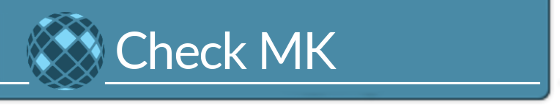
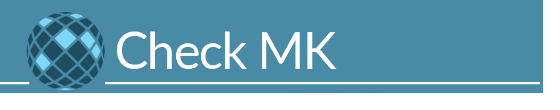
Replaced some more images with simple CSS definitions

Changed region(s): [[0.0, 0.0, 1.0, 0.9273]]

diff --git a/web/htdocs/sidebar.css b/web/htdocs/sidebar.css
@@ -56,10 +56,16 @@ body.side.screenshotmode {
     position: relative;
     top: 0px;
     left: 0px;
-    width: 100%;
-    height: 55px;
+    width: 274px;
+    height: 49px;
     z-index: 10;
-    background-repeat: no-repeat;
+
+    border: 1px solid #264755;
+    border-top: 0;
+    border-left: 0;
+    border-bottom-right-radius: 5px;
+    box-shadow: 0px 0px 2px rgba(0, 0, 0, 0.50);
+    background: #498aa6;
 }
 
 #side_bg {
@@ -86,18 +92,19 @@ body.side.screenshotmode {
     width: 10px;
     height: 55px;
     z-index: 15;
+    cursor: pointer;
 }
+
 #side_fold:hover {
     background-repeat: no-repeat;
     background-position: -3px 7px;
     background-image: url("images/side_fold.png");
 }
 
-
 #side_version {
     position: absolute;
     top: 12px;
-    right: 20px;
+    right: 10px;
     z-index: 54;
     color: #fff;
     text-align: right;
@@ -146,16 +153,22 @@ body.side.screenshotmode {
     position: absolute;
     bottom: 0;
     left: 0;
-    height: 44px;
-    width: 100%;
+    height: 38px;
+    width: 274px;
     z-index: 10;
-    background-repeat: no-repeat;
-    background-image: url("images/sidebar_bottom.png");
+    margin: 0;
+
+    border-color: #86b1c4 #264755;
+    border-width: 1px 1px 0 0;
+    border-style: solid;
+    border-top-right-radius: 5px;
+    box-shadow: 0px 0px 2px rgba(0, 0, 0, 0.50);
+    background: #498aa6;
 }
 
 #side_footer img.iconbutton {
     position: relative;
-    top: 10px;
+    top: 4px;
     left: 9px;
     margin-right: 3px;
     width: 33px;
@@ -164,10 +177,9 @@ body.side.screenshotmode {
 
 #side_footer div.copyright {
     color: #fff;
-    position: relative;
-    left: 141px;
-    top: -5px;
-    width: 122px;
+    position: absolute;
+    right: 10px;
+    bottom: 5px;
     text-align: right;
 }
 
@@ -181,10 +193,16 @@ body.side.screenshotmode {
 
 /* General layout of snapins */
 div.snapin {
-    width: 1555px;
-    margin: 0 0 0 5px;
     padding: 0;
     overflow: hidden;
+    border-color: #8ab1c0 #294753 #294753 #8ab1c0;
+    border-width: 1px;
+    border-style: solid;
+    width: 248px;
+    margin: 5px 10px;
+    border-radius: 5px;
+    box-shadow: 0px 0px 2px rgba(0, 0, 0, 0.50);
+    background: #508aa1;
 }
 
 div.snapin:last-child {
@@ -193,35 +211,26 @@ div.snapin:last-child {
 
 /* Header of the snapin */
 div.snapin div.head {
-    width: 260px;
+    background-color: #6da1b8;
     text-align: center;
     color: #fff;
-    height: 26px;
-    line-height: 29px;
+    height: 20px;
+    line-height: 20px;
 }
 
 div.snapin div.head b {
     font-weight: normal;
 }
 
-
-div.snapin div.head.open {
-    background-image: url("images/snapin_header.png");
-}
-
-div.snapin div.head.closed {
-    background-image: url("images/snapin_closed.png");
-}
-
 /* close button on header */
 div.snapin div.closesnapin {
     float: right;
-    margin-right: 12px;
-    margin-top:   11px;
+    margin-right: 6px;
+    margin-top: 6px;
     line-height: 0px;
     height: 8px;
-    width:8px;
-    padding:0;
+    width: 8px;
+    padding: 0;
 }
 
 div.snapin div.closesnapin img {
@@ -231,8 +240,8 @@ div.snapin div.closesnapin img {
 
 div.snapin div.minisnapin {
     float: left;
-    margin-left: 13px;
-    margin-top:  11px;
+    margin-left: 6px;
+    margin-top: 6px;
     line-height: 0px;
     height: 8px;
 }
@@ -242,24 +251,9 @@ div.snapin div.minisnapin img {
     height: 8px;
 }
 
-
 div.snapin div.content {
-    background-image: url("images/snapin_background.png");
-    background-repeat: repeat-y;
-    background-position: left;
-
-    /* It's important for the left/right padding to be substracted
-     * from the width defined below. The regular width would be 260px. */
-    padding: 10px 15px 5px;
-    width: 230px;
-}
-
-div.snapin div.foot {
-    background-image: url("images/snapin_footer.png");
-    background-repeat: no-repeat;
-    width: 260px;
-    height: 5px;
-    line-height: 5px;
+    padding: 10px;
+    width: 228px;
 }
 
 /*

diff --git a/web/htdocs/js/sidebar.js b/web/htdocs/js/sidebar.js
@@ -659,8 +659,6 @@ function toggle_sidebar_snapin(oH2, url) {
             var oContent = child;
         else if (child.tagName == 'DIV' && (child.className == 'head open' || child.className == "head closed"))
             var oHead = child;
-        else if (child.tagName == 'DIV' && child.className == 'foot')
-            var oFoot = child;
     }
     var oImgMini = oHead.childNodes[0].childNodes[0].childNodes[0];
 
@@ -668,13 +666,11 @@ function toggle_sidebar_snapin(oH2, url) {
     var closed = oContent.style.display == "none";
     if (closed) {
         oContent.style.display = "block";
-        oFoot.style.display = "block";
         oHead.className = "head open";
         oImgMini.src = "images/button_minisnapin.png";
     }
     else {
         oContent.style.display = "none";
-        oFoot.style.display = "none";
         oHead.className = "head closed";
         oImgMini.src = "images/button_maxisnapin.png";
     }
@@ -682,7 +678,6 @@ function toggle_sidebar_snapin(oH2, url) {
     get_url(url + (closed ? "open" : "closed"));
     oContent = null;
     oHead = null;
-    oFoot = null;
     childs = null;
 }
 

diff --git a/web/htdocs/sidebar.py b/web/htdocs/sidebar.py
@@ -370,7 +370,7 @@ def render_snapin(name, state):
             html.write('<script>get_url("%s", updateContents, "snapin_%s")</script>' % (refresh_url, name))
     except Exception, e:
         snapin_exception(e)
-    html.write('</div><div class="foot"%s></div>\n' % style)
+    html.write('</div>\n')
     html.write('</div>')
     return refresh_url
 
